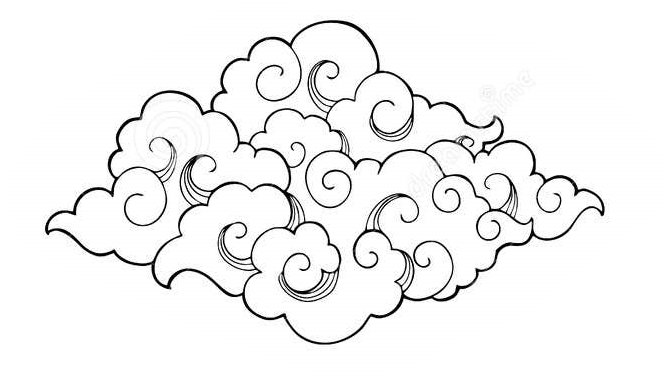
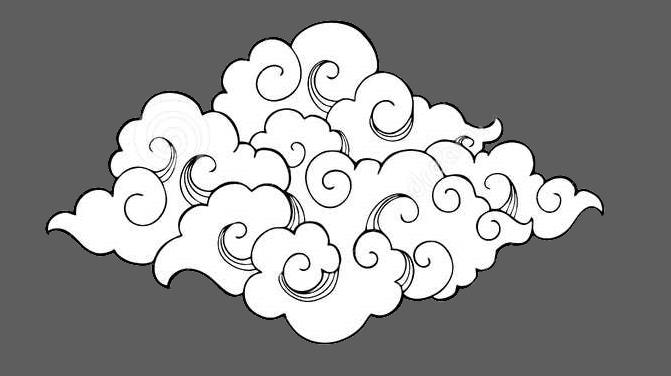
Added transparent clouds and new kanagawa wallpapers

diff --git a/templates/header.html b/templates/header.html
@@ -70,9 +70,10 @@
         "{% static '/img/header/bubble.png' %}",
     ];
 
-    const bubble_count = 8;
+    const bubble_count = 18;
 
     for(let i = 0; i < bubble_count; i++){
+    
         const bubble = document.createElement("img");
         bubble.src = bubble_image[Math.floor(Math.random() * bubble_image.length)];
 
@@ -82,7 +83,10 @@
 
         bubble.style.scale = (Math.random() + 0.5) * 0.2;
 
-        bubble.style.position = "absolute";
+        buuble.style.transform = "scale()"
+        bubble.style.animation = 
+
+        
 
         container.appendChild(bubble);
     }

diff --git a/static/css/style.css b/static/css/style.css
@@ -30,6 +30,10 @@
     clip-path: rect(5px 100% 100% 5px);
 }
 
+.bubble{
+    pointer-events: none;
+}
+
 .card{
     margin: 10px;
     padding: 10px;
